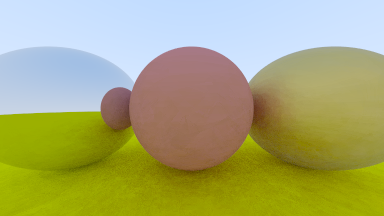
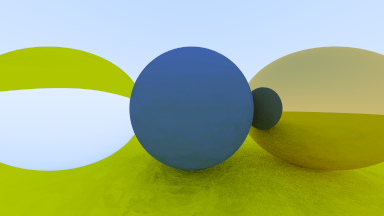
refract

diff --git a/raytracing/material.go b/raytracing/material.go
@@ -1,6 +1,9 @@
 package raytracing
 
-import "math/rand"
+import (
+	"math"
+	"math/rand"
+)
 
 type Material interface {
 	scatter(rIn *Ray, rec *HitRecord, attenuation *Color, scattered *Ray, random *rand.Rand) bool
@@ -24,7 +27,42 @@ type Metal struct {
 
 func (metal *Metal) scatter(rIn *Ray, rec *HitRecord, attenuation *Color, scattered *Ray, random *rand.Rand) bool {
 	reflected := reflect(unit(rIn.direction), rec.normal)
-	*scattered = Ray{origin: rec.p, direction: add(reflected, mul(randomInUnitSphere(random), metal.fuzz))}
+	*scattered = Ray{origin: rec.p, direction: add(reflected, mul(metal.fuzz, randomInUnitSphere(random)))}
 	*attenuation = metal.albedo
 	return (dot(scattered.direction, rec.normal) > 0)
+}
+
+func refract(uv Vec3, n Vec3, etai_over_etat float64) Vec3 {
+	cos_theta := dot(negate(uv), n)
+	r_out_parallel := mul(etai_over_etat, add(uv, mul(cos_theta, n)))
+	r_out_perp := mul(-math.Sqrt(1.0-r_out_parallel.lengthSquared()), n)
+	return add(r_out_parallel, r_out_perp)
+}
+
+type Dielectric struct {
+	refIdx float64
+}
+
+func (dielectric *Dielectric) scatter(rIn *Ray, rec *HitRecord, attenuation *Color, scattered *Ray, random *rand.Rand) bool {
+	*attenuation = vec3(1.0, 1.0, 1.0)
+	var etaiOverEtat float64
+	if rec.frontFace {
+		etaiOverEtat = 1.0 / dielectric.refIdx
+	} else {
+		etaiOverEtat = dielectric.refIdx
+	}
+	unitDirection := unit(rIn.direction)
+
+	cosTheta := math.Min(dot(negate(unitDirection), rec.normal), 1.0)
+	sinTheta := math.Sqrt(1.0 - cosTheta*cosTheta)
+	if etaiOverEtat*sinTheta > 1.0 {
+		refracted := reflect(unitDirection, rec.normal)
+		*scattered = Ray{origin: rec.p, direction: refracted}
+		return true
+	}
+
+	refracted := refract(unitDirection, rec.normal, etaiOverEtat)
+	*scattered = Ray{origin: rec.p, direction: refracted}
+	return true
+
 }

diff --git a/raytracing/render.go b/raytracing/render.go
@@ -43,7 +43,7 @@ func rayColor(ray Ray, world Hittable, depth int, random *rand.Rand) Color {
 		}
 
 		target := add(add(rec.p, rec.normal), randomUnitVector(random))
-		return mul(rayColor(Ray{origin: rec.p, direction: sub(target, rec.p)}, world, depth-1, random), 0.5)
+		return mul(0.5, rayColor(Ray{origin: rec.p, direction: sub(target, rec.p)}, world, depth-1, random))
 	}
 	unitDirection := unit(ray.direction)
 	t := 0.5 * (unitDirection.y + 1.0)
@@ -79,10 +79,10 @@ func Render() {
 	ch := make(chan Pixel, imageWidth*imageHeight)
 
 	world := HittableList{hittables: []Hittable{
-		&Sphere{center: vec3(0, 0, -1), radius: 0.5, material: &Lambertian{albedo: vec3(0.7, 0.3, 0.3)}},
+		&Sphere{center: vec3(0, 0, -1), radius: 0.5, material: &Lambertian{albedo: vec3(0.1, 0.2, 0.5)}},
 		&Sphere{center: vec3(0, -100.5, -1), radius: 100, material: &Lambertian{albedo: vec3(0.8, 0.8, 0.0)}},
-		&Sphere{center: vec3(1, 0, -1), radius: 0.5, material: &Metal{albedo: vec3(0.8, 0.6, 0.2), fuzz: 1.0}},
-		&Sphere{center: vec3(-1, 0, -1), radius: 0.5, material: &Metal{albedo: vec3(0.8, 0.8, 0.8), fuzz: 0.0}},
+		&Sphere{center: vec3(1, 0, -1), radius: 0.5, material: &Metal{albedo: vec3(0.8, 0.6, 0.2), fuzz: 0.0}},
+		&Sphere{center: vec3(-1, 0, -1), radius: 0.5, material: &Dielectric{refIdx: 1.5}},
 	}}
 
 	var waitGroup sync.WaitGroup

diff --git a/raytracing/sphere.go b/raytracing/sphere.go
@@ -23,7 +23,7 @@ func (sphere *Sphere) hit(ray Ray, tMin float64, tMax float64, rec *HitRecord) b
 		if temp < tMax && temp > tMin {
 			rec.t = temp
 			rec.p = ray.at(rec.t)
-			outwardNormal := mul(sub(rec.p, sphere.center), 1/sphere.radius)
+			outwardNormal := mul(1/sphere.radius, sub(rec.p, sphere.center))
 			rec.setFaceNormal(&ray, &outwardNormal)
 			rec.material = sphere.material
 			return true
@@ -32,7 +32,7 @@ func (sphere *Sphere) hit(ray Ray, tMin float64, tMax float64, rec *HitRecord) b
 		if temp < tMax && temp > tMin {
 			rec.t = temp
 			rec.p = ray.at(rec.t)
-			outwardNormal := mul(sub(rec.p, sphere.center), 1/sphere.radius)
+			outwardNormal := mul(1/sphere.radius, sub(rec.p, sphere.center))
 			rec.setFaceNormal(&ray, &outwardNormal)
 			rec.material = sphere.material
 			return true

diff --git a/raytracing/vec3.go b/raytracing/vec3.go
@@ -33,7 +33,7 @@ func negate(v Vec3) Vec3 {
 	return Vec3{x: -v.x, y: -v.y, z: -v.z}
 }
 
-func mul(v Vec3, t float64) Vec3 {
+func mul(t float64, v Vec3) Vec3 {
 	return Vec3{x: v.x * t, y: v.y * t, z: v.z * t}
 }
 
@@ -78,11 +78,11 @@ func hadamard(u Vec3, v Vec3) Vec3 {
 }
 
 func unit(v Vec3) Vec3 {
-	return mul(v, 1/length(v))
+	return mul(1/length(v), v)
 }
 
 func lerp(u Vec3, v Vec3, t float64) Vec3 {
-	return add(mul(u, 1-t), mul(v, t))
+	return add(mul(1-t, u), mul(t, v))
 }
 
 func randomVec3(random *rand.Rand) Vec3 {
@@ -98,5 +98,5 @@ func randomVec3MinMax(min float64, max float64, random *rand.Rand) Vec3 {
 }
 
 func reflect(v Vec3, n Vec3) Vec3 {
-	return sub(v, mul(n, 2.0*dot(v, n)))
+	return sub(v, mul(2.0*dot(v, n), n))
 }

diff --git a/raytracing/ray.go b/raytracing/ray.go
@@ -6,9 +6,9 @@ type Ray struct {
 }
 
 func at(ray *Ray, t float64) Point {
-	return add(ray.origin, mul(ray.direction, t))
+	return add(ray.origin, mul(t, ray.direction))
 }
 
 func (ray *Ray) at(t float64) Point {
-	return add(ray.origin, mul(ray.direction, t))
+	return add(ray.origin, mul(t, ray.direction))
 }
